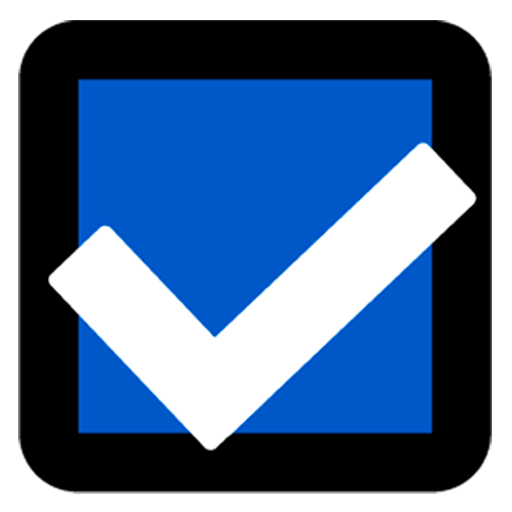
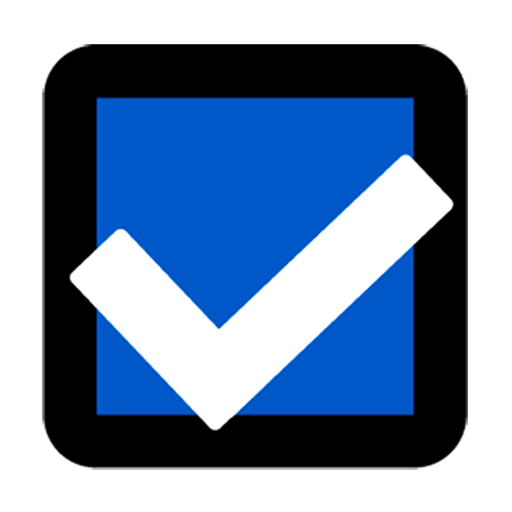
arreglos de ui

diff --git a/index.html b/index.html
@@ -24,13 +24,13 @@
   <meta property="twitter:description" content="Una app genial y rápida para organizar tu día." />
   <meta property="twitter:image" content="https://todoan.vercel.app/og-image.png" />
 
-  <!-- 1. Importamos la fuente Lato (Si ya la tenías, no la dupliques) -->
+
 <link rel="preconnect" href="https://fonts.googleapis.com">
 <link rel="preconnect" href="https://fonts.gstatic.com" crossorigin>
 <link href="https://fonts.googleapis.com/css2?family=Lato:wght@400;700&display=swap" rel="stylesheet">
 
 <style>
-  /* Reseteo básico y fondo */
+
   html, body {
     margin: 0;
     padding: 0;
@@ -40,7 +40,7 @@
     font-family: "Lato", sans-serif;
   }
 
-  /* Contenedor centrado absoluto */
+
   .splash-container {
     display: flex;
     flex-direction: column;
@@ -55,23 +55,23 @@
     padding: 20px;
   }
 
-  /* Tu logo vertical centrado */
+
   .splash-logo {
-    max-width: 180px; /* Ajustalo a tu gusto si queda muy grande/chico */
+    max-width: 180px; 
     height: auto;
     margin-bottom: 24px;
   }
 
-  /* Estilos para tu firma */
+
   .splash-signature {
-    color: var(--color-text-general, #000000); /* Si falla la variable en el root, tira fallback a negro */
+    color: var(--color-text-general, #000000); 
     font-weight: 400;
     font-size: 14px;
     margin: 0;
   }
 
   .splash-signature a {
-    color: var(--color-primary, #0E58C4); /* Si falla la variable en el root, tira tu azul */
+    color: var(--color-primary, #0E58C4); 
     text-decoration: none;
     font-weight: 600;
   }

diff --git a/vite.config.js b/vite.config.js
@@ -13,7 +13,7 @@ export default defineConfig({
         description: 'Una app genial para organizar mi día',
 
         theme_color: '#0E58C4',   
-        background_color: '#ecf4ff', 
+        background_color: '#d5edf6', 
         display: 'standalone',
         orientation: 'portrait',
         icons: [

diff --git a/src/components/Footer/Footer.module.scss b/src/components/Footer/Footer.module.scss
@@ -1,6 +1,7 @@
 @use "../../styles/variables"as *;
 
 .footer {
+        margin-bottom: 30px;
 
     h2 {
         color: var(--color-text-general);